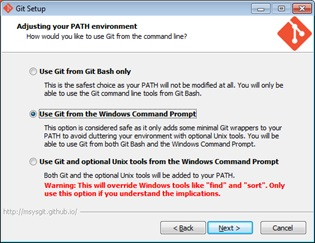
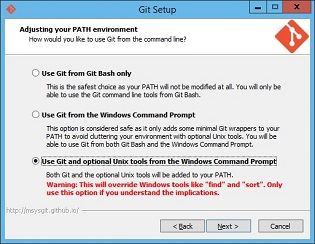
Change msysgit4.jpg picture (install option)

diff --git a/msysgit.md b/msysgit.md
@@ -19,7 +19,7 @@
   
 
 ![PATH Envoronment.](/gtnn/msysgit4.jpg)  
-Рисунок 4. Выбором второй опции включаем в переменную PATH путь к Git.  
+Рисунок 4. Выбором третьей опции включаем в переменную PATH путь к Git и к Unix-утилитам (например нам понадобится далее ssh-keygen).  
   
 
 ![Converstions.](/gtnn/msysgit5.jpg)  
